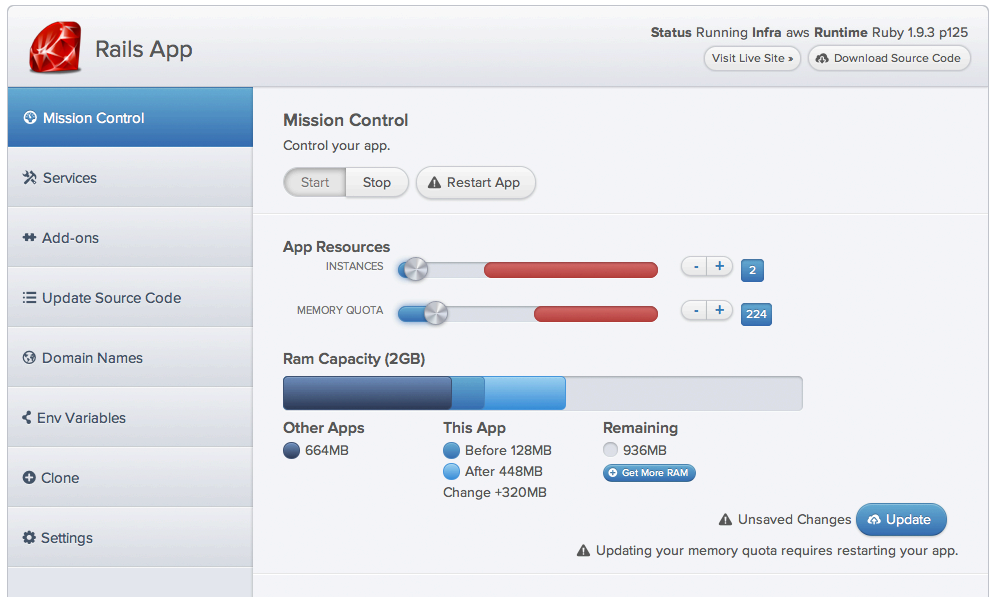
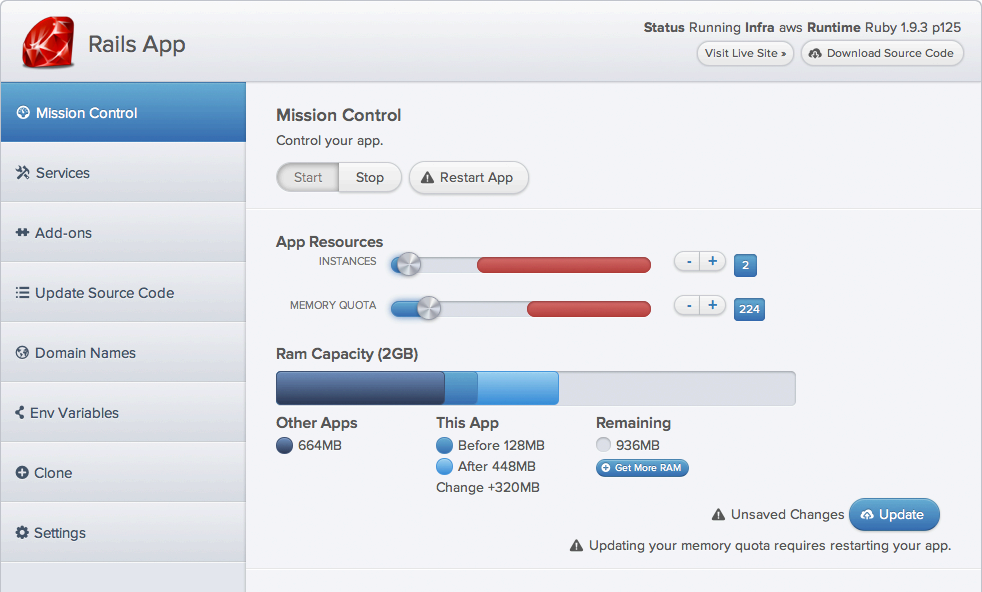
new af screenshot
remove css filter

diff --git a/src/styles/_home.scss b/src/styles/_home.scss
@@ -260,6 +260,6 @@ section.appfog {
   }
   .hero-image {
     margin-bottom: -5px;
-    filter: drop-shadow(0px 3px 20px rgba(0, 0, 0, 0.2));
+    @include screenshot-shadow-white;
   }
 }
